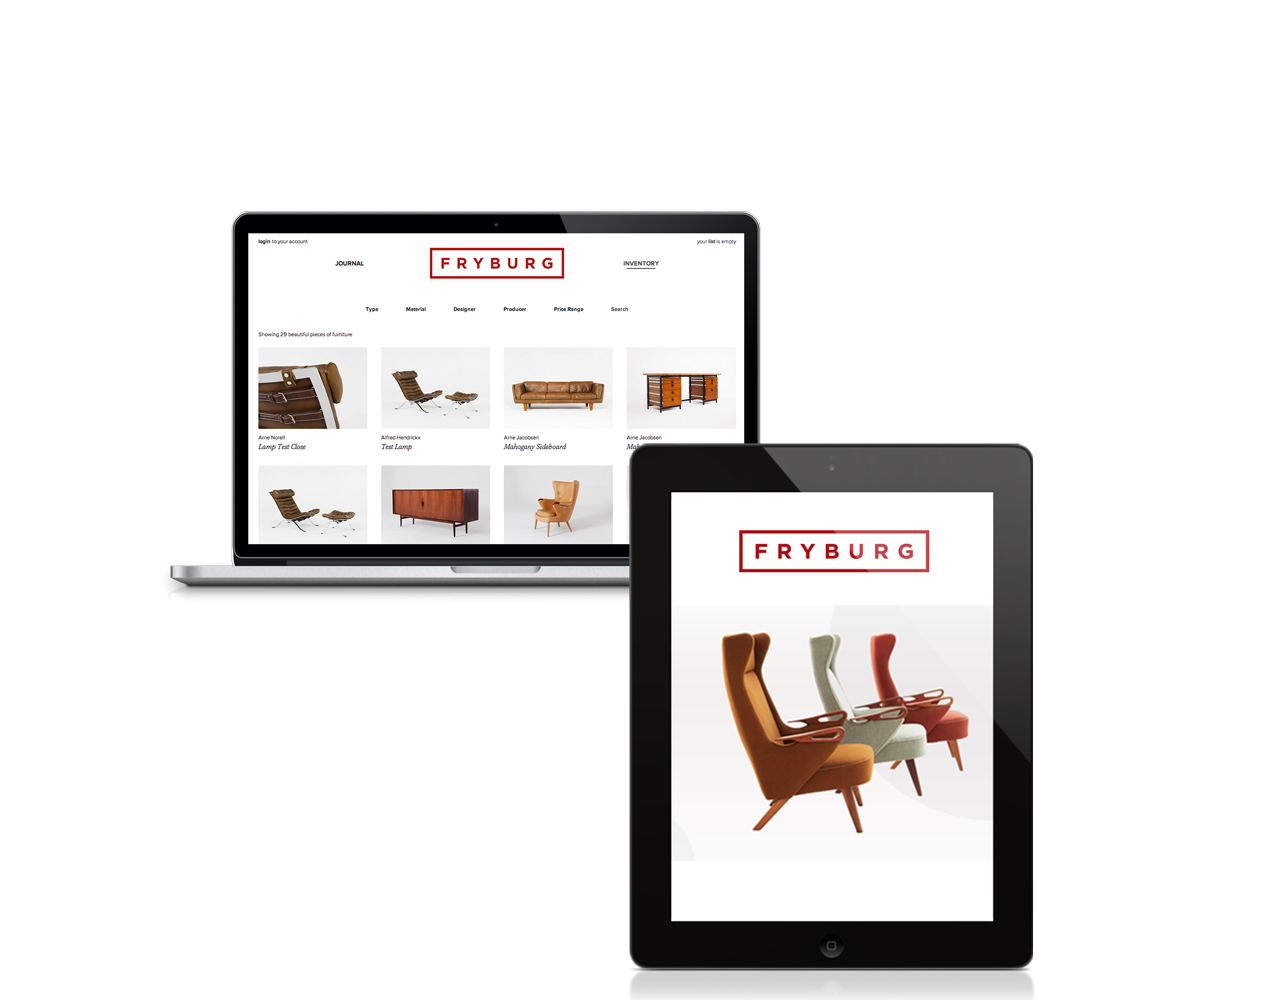
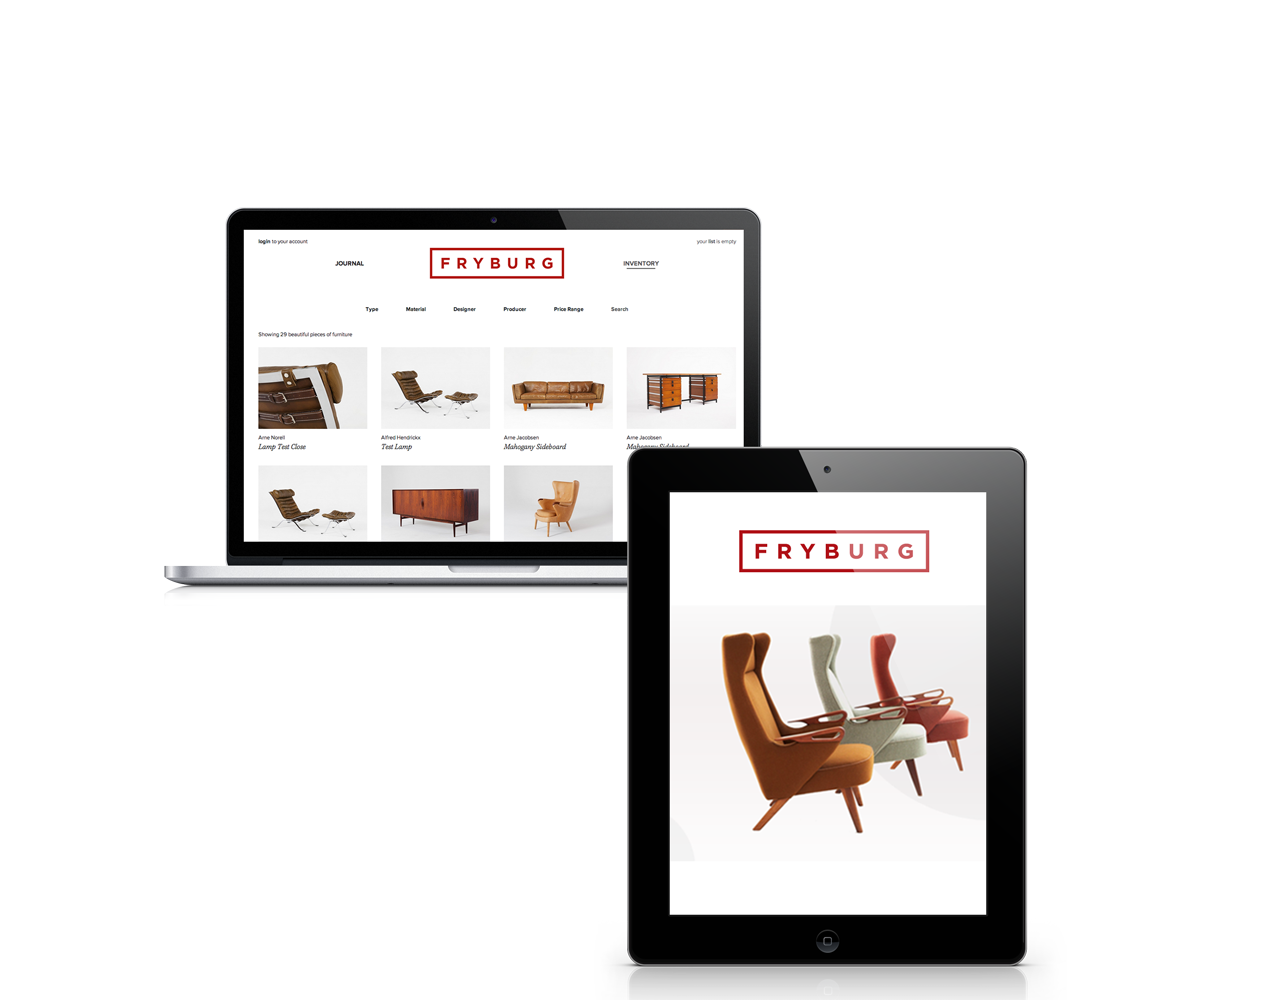
Adjusted Hero Unit & Archive Colorbox

Changed region(s): [[0.122, 0.186, 0.8233, 0.992], [0.6708, 0.62, 0.7013, 0.651], [0.6708, 0.527, 0.7013, 0.558]]

diff --git a/assets/css/main.css b/assets/css/main.css
@@ -1,1 +1,1 @@
-/*! HTML5 Boilerplate v4.3.0 | MIT License | http://h5bp.com/ */html,button,input,select,textarea{color:#222}html{font-size:1em;line-height:1.4}::-moz-selection{background:#b3d4fc;text-shadow:none}::selection{background:#b3d4fc;text-shadow:none}hr{display:block;height:1px;border:0;border-top:1px solid #ccc;margin:1em 0;padding:0}audio,canvas,img,video{vertical-align:middle}fieldset{border:0;margin:0;padding:0}textarea{resize:vertical}.browsehappy{margin:0.2em 0;background:#ccc;color:#000;padding:0.2em 0}.container_3{max-width:1440px;min-width:960px;margin-left:auto;margin-right:auto}@media screen and (max-width: 1460px){.container_3{width:92%;margin-left:4%;margin-right:4%}}.grid_1,.grid_2,.grid_3{display:inline;float:left;position:relative;margin-left:1%;margin-right:1%}.alpha{margin-left:0}.omega{margin-right:0}.indent{margin-left:15%}.container_3 .grid_1{width:31.333%}.container_3 .grid_2{width:64.667%}.container_3 .grid_3{width:98.0%}.container_3 .prefix_1{padding-left:33.333%}.container_3 .prefix_2{padding-left:66.667%}.container_3 .suffix_1{padding-right:33.333%}.container_3 .suffix_2{padding-right:66.667%}.container_3 .push_1{left:33.333%}.container_3 .push_2{left:66.667%}.container_3 .pull_1{left:-33.333%}.container_3 .pull_2{left:-66.667%}.clear{clear:both;display:block;overflow:hidden;visibility:hidden;width:0;height:0}.clearfix:after{clear:both;content:' ';display:block;font-size:0;line-height:0;visibility:hidden;width:0;height:0}.clearfix{display:inline-block}* html .clearfix{height:1%}.clearfix{display:block}@font-face{font-family:'NHaasGroteskDSPro-75Bd';src:url("../webfonts/2874D3_0_0.eot");src:url("../webfonts/2874D3_0_0.eot?#iefix") format("embedded-opentype"),url("../webfonts/2874D3_0_0.woff") format("woff"),url("../webfonts/2874D3_0_0.ttf") format("truetype")}@font-face{font-family:'NHaasGroteskTXStd-55Rg';src:url("../webfonts/2874D3_1_0.eot");src:url("../webfonts/2874D3_1_0.eot?#iefix") format("embedded-opentype"),url("../webfonts/2874D3_1_0.woff") format("woff"),url("../webfonts/2874D3_1_0.ttf") format("truetype")}@font-face{font-family:'woc-icons';src:url("../fonts/woc-icons.eot");src:url("../fonts/woc-icons.eot?#iefix") format("embedded-opentype"),url("../fonts/woc-icons.woff") format("woff"),url("../fonts/woc-icons.ttf") format("truetype"),url("../fonts/woc-icons.svg#woc-icons") format("svg");font-weight:normal;font-style:normal}.icon{font-family:'woc-icons'}[data-icon]:before{font-family:'woc-icons';content:attr(data-icon);speak:none;font-weight:normal;font-variant:normal;text-transform:none;line-height:1;-webkit-font-smoothing:antialiased;-moz-osx-font-smoothing:grayscale}.icon-icons_prev,.icon-icons_plus,.icon-icons_next{font-family:'woc-icons';speak:none;font-style:normal;font-weight:normal;font-variant:normal;text-transform:none;line-height:1;-webkit-font-smoothing:antialiased}.icon-icons_prev:before{content:"\70"}.icon-icons_plus:before{content:"\2b"}.icon-icons_next:before{content:"\6e"}body,html{height:100%}.img-responsive{display:block;max-width:94%;height:auto;margin:0 auto}.position-fixed{position:fixed}.position-relative{position:relative}.position-top{top:0}.hidden{display:none}img.desaturate{filter:grayscale(100%);-webkit-filter:grayscale(100%);-moz-filter:grayscale(100%);filter:grayscale(100%);filter:url(desaturate.svg#greyscale);filter:gray}img.desaturate:hover{filter:grayscale(0);-webkit-filter:grayscale(0);-moz-filter:grayscale(0);filter:grayscale(0);filter:url();filter:none}h1,h2,h3,h4,h5,.main-nav{font-weight:normal}h1,h2,h3,.main-nav,blockquote,strong{font-family:"NHaasGroteskDSPro-75Bd","Helvetica","arial, sans-serif";font-weight:normal}p,h2.work-title{font-family:"NHaasGroteskTXStd-55Rg","Helvetica","arial, sans-serif";font-weight:normal}footer{font-family:"Courier New","Courier","monospace";font-size:0.688em}h1{font-size:1.688em}h2{font-size:2.625em;line-height:1.25em;padding:20% 0 0 0}h2.work-title{padding:60px 0 0 0;font-size:0.938em}h3{font-size:1.750em;line-height:1.25em}p{font-size:0.938em;line-height:1.4em}blockquote{font-size:2.000em;line-height:1.000em}.main-nav{font-size:0.875em}a:link,a:visited,a:hover,a:active{color:#000;text-decoration:none}a:hover,a.active{border-bottom:2px solid #000}header{position:fixed;z-index:999;width:100%;background:#fff;color:#000}ul.main-nav{padding-top:15px;float:right;list-style-type:none}ul.main-nav li{display:inline;padding:0 10px}ul.main-nav li:last-child{display:inline;padding:0  0 0 10px}header.secondary{color:#fff}header.secondary a:link,header.secondary a:visited,header.secondary a:hover,header.archive a:active{color:#fff}header.secondary a:hover,header.secondary a:active{border-color:#fff}footer{position:fixed;bottom:0;z-index:999;width:100%;height:48px}footer.secondary,footer.secondary a:link,footer.secondary a:visited,footer.secondary a:hover,footer.secondary a:active{color:#fff}footer.secondary.position-relative{background:#000;float:left}span.lang{position:relative;top:18px}address.right{position:relative;bottom:15px;text-align:right;font-style:normal}section{position:relative;float:left}section.fullscreen{width:100%;height:100%;min-height:720px}section.normal{width:100%;height:auto}.cycle-slideshow{height:100%}section#profile{background:#faebd7}.profile{background:#faebd7}section#work{background:#fff}.work{background:#d8d8d8}section#archive{background:#000;padding:50px 0}.archive{background:#000}.case{width:100%;height:100%;background:#d8d8d8;position:relative}.case-container{height:100%;position:relative}.work-nav{position:absolute;margin-top:25%;z-index:998;padding:0 5%;width:90%;font-size:60px;color:#fff}#prevControl{float:left;position:relative;width:100px}#nextControl{float:right;position:relative;width:100px}#prevControl:hover,#nextControl:hover{text-shadow:-1px -2px 1px #969696;cursor:pointer}.case-link{position:absolute;top:30%;left:65%;width:auto;text-align:center;z-index:998;font-size:100px;margin-top:-20px}a.case-link:link,a.case-link:visited{color:#fff}a.case-link:hover,a.case-link:active{color:#fff;border:none;text-shadow:-1px -2px 1px #969696}.mosaicflow__column{float:left}.mosaicflow__item img{display:block;width:100%;height:auto;padding:3% 0}#cboxOverlay{height:100%;width:100%;background:#000}#cboxOverlay,#colorbox{position:fixed;top:0}#colorbox .cycle-slideshow{width:100%;text-align:center}#colorbox:focus{outline:none}#cboxLoadedContent{text-align:center}.cboxPhoto{width:100%}.archive-img{margin:0 auto;height:100%}.headerimg{width:100%;height:120%;position:absolute;top:0}.headerbg{width:100%;height:100%;position:absolute;background:#d8d8d8}.hero_unit{width:100%;height:120%;position:relative;float:left}.copy01{padding-bottom:100px}h4{font-family:"Courier New","Courier","monospace";margin-left:15%;font-size:0.750em;line-height:1em;margin:0 0 0 15%}section#onder{margin-top:150px}.ir{background-color:transparent;border:0;overflow:hidden;*text-indent:-9999px}.ir:before{content:"";display:block;width:0;height:150%}.hidden{display:none !important;visibility:hidden}.visuallyhidden{border:0;clip:rect(0 0 0 0);height:1px;margin:-1px;overflow:hidden;padding:0;position:absolute;width:1px}.visuallyhidden.focusable:active,.visuallyhidden.focusable:focus{clip:auto;height:auto;margin:0;overflow:visible;position:static;width:auto}.invisible{visibility:hidden}.clearfix:before,.clearfix:after{content:" ";display:table}.clearfix:after{clear:both}.clearfix{*zoom:1}@media print{*{background:transparent !important;color:#000 !important;box-shadow:none !important;text-shadow:none !important}a,a:visited{text-decoration:underline}a[href]:after{content:" (" attr(href) ")"}abbr[title]:after{content:" (" attr(title) ")"}.ir a:after,a[href^="javascript:"]:after,a[href^="#"]:after{content:""}pre,blockquote{border:1px solid #999;page-break-inside:avoid}thead{display:table-header-group}tr,img{page-break-inside:avoid}img{max-width:100% !important}@page{margin:0.5cm}p,h2,h3{orphans:3;widows:3}h2,h3{page-break-after:avoid}}
+/*! HTML5 Boilerplate v4.3.0 | MIT License | http://h5bp.com/ */html,button,input,select,textarea{color:#222}html{font-size:1em;line-height:1.4}::-moz-selection{background:#b3d4fc;text-shadow:none}::selection{background:#b3d4fc;text-shadow:none}hr{display:block;height:1px;border:0;border-top:1px solid #ccc;margin:1em 0;padding:0}audio,canvas,img,video{vertical-align:middle}fieldset{border:0;margin:0;padding:0}textarea{resize:vertical}.browsehappy{margin:0.2em 0;background:#ccc;color:#000;padding:0.2em 0}.container_3{max-width:1440px;min-width:960px;margin-left:auto;margin-right:auto}@media screen and (max-width: 1460px){.container_3{width:92%;margin-left:4%;margin-right:4%}}.grid_1,.grid_2,.grid_3{display:inline;float:left;position:relative;margin-left:1%;margin-right:1%}.alpha{margin-left:0}.omega{margin-right:0}.indent{margin-left:15%}.container_3 .grid_1{width:31.333%}.container_3 .grid_2{width:64.667%}.container_3 .grid_3{width:98.0%}.container_3 .prefix_1{padding-left:33.333%}.container_3 .prefix_2{padding-left:66.667%}.container_3 .suffix_1{padding-right:33.333%}.container_3 .suffix_2{padding-right:66.667%}.container_3 .push_1{left:33.333%}.container_3 .push_2{left:66.667%}.container_3 .pull_1{left:-33.333%}.container_3 .pull_2{left:-66.667%}.clear{clear:both;display:block;overflow:hidden;visibility:hidden;width:0;height:0}.clearfix:after{clear:both;content:' ';display:block;font-size:0;line-height:0;visibility:hidden;width:0;height:0}.clearfix{display:inline-block}* html .clearfix{height:1%}.clearfix{display:block}@font-face{font-family:'NHaasGroteskDSPro-75Bd';src:url("../webfonts/2874D3_0_0.eot");src:url("../webfonts/2874D3_0_0.eot?#iefix") format("embedded-opentype"),url("../webfonts/2874D3_0_0.woff") format("woff"),url("../webfonts/2874D3_0_0.ttf") format("truetype")}@font-face{font-family:'NHaasGroteskTXStd-55Rg';src:url("../webfonts/2874D3_1_0.eot");src:url("../webfonts/2874D3_1_0.eot?#iefix") format("embedded-opentype"),url("../webfonts/2874D3_1_0.woff") format("woff"),url("../webfonts/2874D3_1_0.ttf") format("truetype")}@font-face{font-family:'woc-icons';src:url("../fonts/woc-icons.eot");src:url("../fonts/woc-icons.eot?#iefix") format("embedded-opentype"),url("../fonts/woc-icons.woff") format("woff"),url("../fonts/woc-icons.ttf") format("truetype"),url("../fonts/woc-icons.svg#woc-icons") format("svg");font-weight:normal;font-style:normal}.icon{font-family:'woc-icons'}[data-icon]:before{font-family:'woc-icons';content:attr(data-icon);speak:none;font-weight:normal;font-variant:normal;text-transform:none;line-height:1;-webkit-font-smoothing:antialiased;-moz-osx-font-smoothing:grayscale}.icon-icons_prev,.icon-icons_plus,.icon-icons_next{font-family:'woc-icons';speak:none;font-style:normal;font-weight:normal;font-variant:normal;text-transform:none;line-height:1;-webkit-font-smoothing:antialiased}.icon-icons_prev:before{content:"\70"}.icon-icons_plus:before{content:"\2b"}.icon-icons_next:before{content:"\6e"}body,html{height:100%}.img-responsive{display:block;max-width:94%;height:auto;margin:0 auto}.position-fixed{position:fixed}.position-relative{position:relative}.position-top{top:0}.hidden{display:none}img.desaturate{filter:grayscale(100%);-webkit-filter:grayscale(100%);-moz-filter:grayscale(100%);filter:grayscale(100%);filter:url(desaturate.svg#greyscale);filter:gray}img.desaturate:hover{filter:grayscale(0);-webkit-filter:grayscale(0);-moz-filter:grayscale(0);filter:grayscale(0);filter:url();filter:none}h1,h2,h3,h4,h5,.main-nav{font-weight:normal}h1,h2,h3,.main-nav,blockquote,strong{font-family:"NHaasGroteskDSPro-75Bd","Helvetica","arial, sans-serif";font-weight:normal}p,h2.work-title{font-family:"NHaasGroteskTXStd-55Rg","Helvetica","arial, sans-serif";font-weight:normal}footer{font-family:"Courier New","Courier","monospace";font-size:0.688em}h1{font-size:1.688em}h2{font-size:2.625em;line-height:1.25em;padding:20% 0 0 0}h2.work-title{padding:60px 0 0 0;font-size:0.938em}h3{font-size:1.750em;line-height:1.25em}p{font-size:0.938em;line-height:1.4em}blockquote{font-size:2.000em;line-height:1.000em}.main-nav{font-size:0.875em}a:link,a:visited,a:hover,a:active{color:#000;text-decoration:none}a:hover,a.active{border-bottom:2px solid #000}header{position:fixed;z-index:999;width:100%;background:#fff;color:#000}ul.main-nav{padding-top:15px;float:right;list-style-type:none}ul.main-nav li{display:inline;padding:0 10px}ul.main-nav li:last-child{display:inline;padding:0  0 0 10px}header.secondary{color:#fff}header.secondary a:link,header.secondary a:visited,header.secondary a:hover,header.archive a:active{color:#fff}header.secondary a:hover,header.secondary a:active{border-color:#fff}footer{position:fixed;bottom:0;z-index:999;width:100%;height:48px}footer.secondary,footer.secondary a:link,footer.secondary a:visited,footer.secondary a:hover,footer.secondary a:active{color:#fff}footer.secondary.position-relative{background:#000;float:left}span.lang{position:relative;top:18px}address.right{position:relative;bottom:15px;text-align:right;font-style:normal}section{position:relative;float:left}section.fullscreen{width:100%;height:100%;min-height:720px}section.normal{width:100%;height:auto}.cycle-slideshow{height:100%}section#profile{background:#faebd7}.profile{background:#faebd7}section#work{background:#fff}.work{background:#d8d8d8}section#archive{background:#000;padding:50px 0}.archive{background:#000}.case{width:100%;height:100%;background:#d8d8d8;position:relative}.case-container{height:100%;position:relative}.work-nav{position:absolute;margin-top:25%;z-index:998;padding:0 5%;width:90%;font-size:60px;color:#fff}#prevControl{float:left;position:relative;width:100px}#nextControl{float:right;position:relative;width:100px}#prevControl:hover,#nextControl:hover{text-shadow:-1px -2px 1px #969696;cursor:pointer}.case-link{position:absolute;top:30%;left:65%;width:auto;text-align:center;z-index:998;font-size:100px;margin-top:-20px}a.case-link:link,a.case-link:visited{color:#fff}a.case-link:hover,a.case-link:active{color:#fff;border:none;text-shadow:-1px -2px 1px #969696}.mosaicflow__column{float:left}.mosaicflow__item img{display:block;width:100%;height:auto;padding:3% 0}#cboxOverlay{height:100%;width:100%;background:#000}#cboxOverlay,#colorbox,#cboxWrapper{position:fixed;top:0;z-index:1000}#cboxPrevious{position:fixed;top:50%;left:10%}#cboxNext{position:fixed;top:50%;right:10%}#cboxContent img{max-height:100%}#colorbox .cycle-slideshow{width:100%;text-align:center}#colorbox:focus{outline:none}#cboxLoadedContent{text-align:center}.cboxPhoto{width:100%}.archive-img{margin:0 auto;height:100%}.headerimg{width:100%;height:120%;position:absolute;top:0}.headerbg{width:100%;height:100%;position:absolute;background:#d8d8d8}.hero_unit{width:100%;height:120%;position:relative;float:left}.copy01{padding-bottom:100px}h4{font-family:"Courier New","Courier","monospace";margin-left:15%;font-size:0.750em;line-height:1em;margin:0 0 0 15%}section#onder{margin-top:150px}.meta p{padding:40px 0}.ir{background-color:transparent;border:0;overflow:hidden;*text-indent:-9999px}.ir:before{content:"";display:block;width:0;height:150%}.hidden{display:none !important;visibility:hidden}.visuallyhidden{border:0;clip:rect(0 0 0 0);height:1px;margin:-1px;overflow:hidden;padding:0;position:absolute;width:1px}.visuallyhidden.focusable:active,.visuallyhidden.focusable:focus{clip:auto;height:auto;margin:0;overflow:visible;position:static;width:auto}.invisible{visibility:hidden}.clearfix:before,.clearfix:after{content:" ";display:table}.clearfix:after{clear:both}.clearfix{*zoom:1}@media print{*{background:transparent !important;color:#000 !important;box-shadow:none !important;text-shadow:none !important}a,a:visited{text-decoration:underline}a[href]:after{content:" (" attr(href) ")"}abbr[title]:after{content:" (" attr(title) ")"}.ir a:after,a[href^="javascript:"]:after,a[href^="#"]:after{content:""}pre,blockquote{border:1px solid #999;page-break-inside:avoid}thead{display:table-header-group}tr,img{page-break-inside:avoid}img{max-width:100% !important}@page{margin:0.5cm}p,h2,h3{orphans:3;widows:3}h2,h3{page-break-after:avoid}}

diff --git a/assets/css/main.scss b/assets/css/main.scss
@@ -416,6 +416,8 @@ a.case-link:hover, a.case-link:active{
 }
 
 
+
+
 /* Archive Image Grid
 ----------------------------------------------------------------------------------------------------*/
 .mosaicflow__column {
@@ -435,9 +437,27 @@ a.case-link:hover, a.case-link:active{
 	background:#000;
 }
 
-#cboxOverlay, #colorbox{
-	position:fixed;
-	top:0;
+#cboxOverlay, #colorbox, #cboxWrapper{
+	position: fixed;
+	top: 0;
+	//left: 0;
+	z-index: 1000;
+}
+
+#cboxPrevious{
+	position: fixed;
+	top: 50%;
+	left: 10%;
+}
+
+#cboxNext{
+	position: fixed;
+	top: 50%;
+	right: 10%;
+}
+
+#cboxContent img {
+    max-height: 100%;
 }
 
 #colorbox .cycle-slideshow{
@@ -501,6 +521,10 @@ h4{
 
 section#onder{
 	margin-top:150px;
+}
+
+.meta p{
+	padding:40px 0;
 }
 
 

diff --git a/assets/js/plugins.js b/assets/js/plugins.js
@@ -102,7 +102,7 @@ $.getScript("/assets/js/vendor/bootstrap.min.js", function(){
 });
 
 $.getScript("/assets/js/vendor/jquery.colorbox-min.js", function(){
-	$(".various").colorbox({width:"80%", height:"80%", innerWidth: "90%", innerHeight: "90%"});
+	$(".various").colorbox({maxWidth:"100%", maxHeight:"100%", width:false, height: false, innerWidth: false, innerHeight: "100%", reposition: "true", scalePhotos:"true", });
 });
 $.getScript("/assets/js/vendor/jquery.scrollTo-1.4.3.1-min.js", function(){
 	

diff --git a/site/templates/work.php b/site/templates/work.php
@@ -6,7 +6,7 @@
 	<?php if($page->hero() !='' && $page->hero() !='0'): ?>
 	<?php $image = $page->images()->find( html($page->hero()) ) ?>
 	<div class="headerimg">
-		<div class="case-container container_3" style="background-image:url('<?php echo $image->url() ?>');background-position: center; background-repeat: no-repeat; background-size: cover; -webkit-background-size: cover;
+		<div class="case-container " style="background-image:url('<?php echo $image->url() ?>');background-position: left; background-repeat: no-repeat; background-size: cover; -webkit-background-size: cover;
 		-moz-background-size: cover;
 		-o-background-size: cover;">
 		</div>
@@ -54,7 +54,7 @@
 
 <section id="meta" class="normal">
 	<div class="container_3">
-		<div class="grid_1 indent">
+		<div class="grid_1 indent meta">
 		
 			<?php echo kirbytext($page->meta()) ?>
 		

diff --git a/site/snippets/header.php b/site/snippets/header.php
@@ -23,7 +23,7 @@
 		<div class="container_3">
 			
 			<div class="grid_1 alpha">
-				<h1>weaponofchoice</h1>
+				<h1><a href="/" title="Home">weaponofchoice</a></h1>
 			</div>
 			<div class="grid_2 omega menu-bar">
 				<ul class="main-nav ">
